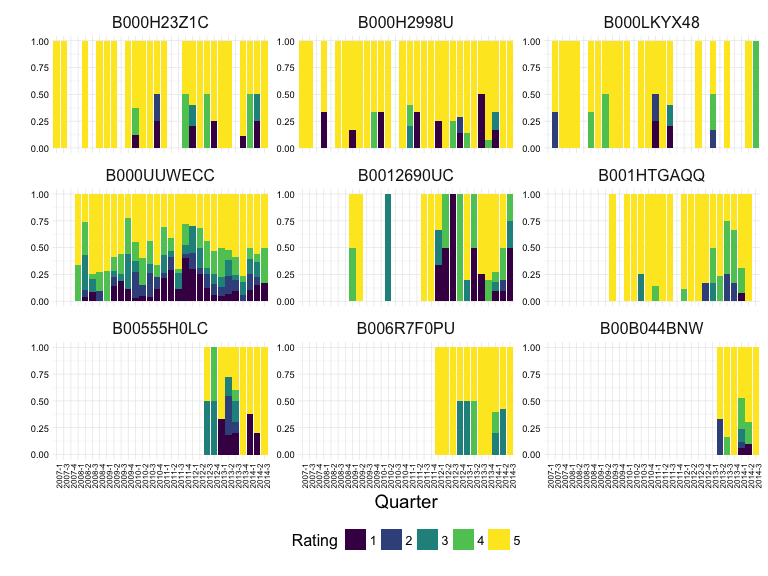
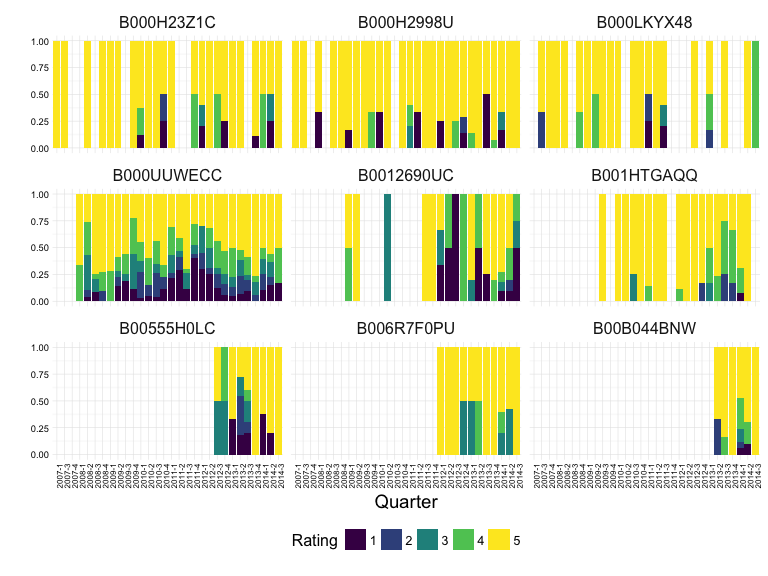
Ratings over time plot doesn't need free y scale

diff --git a/notebooks/review_summary_vis.md b/notebooks/review_summary_vis.md
@@ -201,7 +201,7 @@ Visualize quarterly rating distribution for the 9 most reviewed recalled product
 ``` r
 ggplot(top_asins_ratings, aes(x = newdate, y = n, fill = overall)) +
   geom_bar(position = "fill", stat = "identity") + 
-  facet_wrap(~ asin, scales = "free_y") +
+  facet_wrap(~ asin) +
   scale_fill_viridis(discrete = TRUE) +
   theme(axis.text.x = element_text(size = 6, angle = 90, margin = margin(t = -12)),
         axis.text.y = element_text(size = 7, margin = margin(r = -12)),
